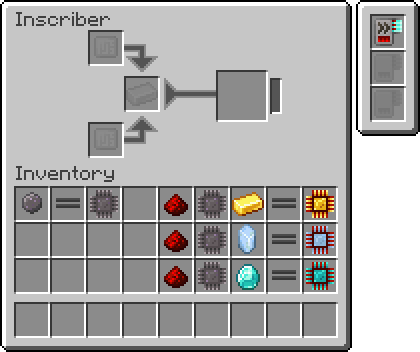
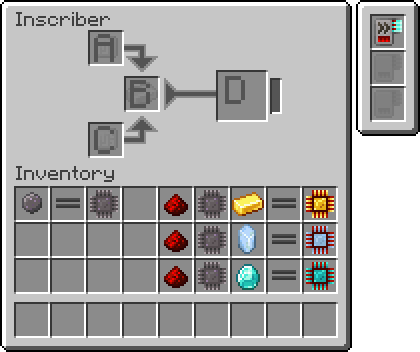
More images and start on subnetworks page

diff --git a/mods/Applied-Energistics-2/guidebook/getting-started.md b/mods/Applied-Energistics-2/guidebook/getting-started.md
@@ -8,7 +8,12 @@ navigation:
   The following information only applies to Applied Energistics 2 in Minecraft 1.19 and newer.
 </div>
 
+## Getting Started
+
 ## Getting The Initial Materials
+
+![The interior of a meteor](assets/assemblies/meteor_interior.png)
+
 To get started with Applied Energistics 2, one must first find a [meteorite](./features/meteorites.md). These are fairly common and tend to leave massive holes in the terrain, so you've probably encountered one in your travels.
 If you haven't, you can craft a <ItemLink id="meteorite_compass" />, which will point toward the nearest NEED INFO DOES IT POINT AT THE SKY STONE OR THE MYSTERIOUS CUBE.
 
@@ -79,6 +84,8 @@ take advantage you need to set up an [ME Network](features/me-network.md).
 ## Your Very First ME System
 Now that you have all of the basic materials and machines for Applied Energistics 2, you can make your first ME (Matter Energy) system. This will be a very basic one, no autocrafting, no logistics, just nice, simple, searchable storage.
 
+![A Small ME System](assets/assemblies/tiny_me_system.png)
+
 - Your ingredients list:
     - 1x <ItemLink id="drive" />
     - 1x <ItemLink id="terminal" /> or <ItemLink id="crafting_terminal" />
@@ -86,8 +93,8 @@ Now that you have all of the basic materials and machines for Applied Energistic
     - A few [cables](./features/me-network/cables.md), either glass, covered, or smart, but not dense
     - A few [storage cells](./features/storage-cells.md), recommended of the 4k variety for a good mix of capacity and types (it would be more efficient to partition a mix of 4k and 1k but that's a complexity we won't go into now)
 1. Place the drive down.
-2. The pattern provider (and several other AE2 devices) comes in 2 modes, cube and flat. They can be switched between in a crafting grid. If your energy acceptor is a cube, place it down next to the drive. If it's a flat square, place a cable on the drive and place the acceptor on that.
-3. Run energy into the pattern provider with a cable/pipe/conduit from your favorite energy-generation mod.
+2. The energy acceptor (and several other AE2 devices) comes in 2 modes, cube and flat. They can be switched between in a crafting grid. If your energy acceptor is a cube, place it down next to the drive. If it's a flat square, place a cable on the drive and place the acceptor on that.
+3. Run energy into the energy acceptor with a cable/pipe/conduit from your favorite energy-generation mod.
 4. Place a cable on top of the drive (or otherwise at eye level) and place your terminal or crafting terminal on it.
 5. Put your storage cells into the drive
 6. Profit

diff --git a/mods/Applied-Energistics-2/guidebook/ae2-mechanics/subnetworks.md b/mods/Applied-Energistics-2/guidebook/ae2-mechanics/subnetworks.md
@@ -4,3 +4,17 @@ navigation:
   title: Subnetworks
 ---
 ## Subnetworks
+
+"Subnetwork" is a rather loosely-defined term, but one might say that a subnetwork is any network that supports your
+main network or does some small task. They are typically small enough to not require controllers.
+
+They can be
+
+- an import bus and storage bus set up to transfer items or fluids from one container to another like an item or fluid pipe
+- an annihilation plane and storage bus, so that the only place the annihilation plane can put what it breaks is the storage bus, allowing you to filter the plane
+- an interface and formation plane, so that whatever is inserted into the interface gets pushed to the formation plane and placed/dropped in the world
+- a setup to automatically make certus quartz, regulated and controlled by a <ItemLink id="level_emitter"/> on the main network
+- a specialized storage system accessible from the main network via the special storage-bus-on-interface interaction, in order to store the output of a farm without endlessly overflowing your main storage
+
+Very useful for making subnetworks is the <ItemLink id="quartz_fiber"/>. It transfers power between networks without
+connecting them, allowing you to power subnets without needing to put energy acceptors and power cables everywhere

diff --git a/mods/Applied-Energistics-2/guidebook/items-blocks-machines/inscriber.md b/mods/Applied-Energistics-2/guidebook/items-blocks-machines/inscriber.md
@@ -30,9 +30,9 @@ While the name press can be used to name blocks similar to an anvil, useful for 
 
 <RecipeFor id="inscriber" />
 
-### The GUI
+### The GUI And Sidedness
 
-![Inscriber GUI](../assets/diagrams/inscriber_gui.png)
+![Inscriber GUI](../assets/diagrams/inscriber_gui.png) ![Inscriber Sides](../assets/diagrams/inscriber_sides.png)
 
 A. **Top Input** accessed via the top side of the inscriber (items can be both pushed to and pulled from this slot)
 

diff --git a/mods/Applied-Energistics-2/guidebook/website/features/me-network/powered-machines/inscriber.md b/mods/Applied-Energistics-2/guidebook/website/features/me-network/powered-machines/inscriber.md
@@ -1,8 +1,7 @@
 ---
 categories:
   - ME Network/Powered Machines
-item_ids:
-  - ae2:inscriber
+
 related:
   - Presses
 navigation:
